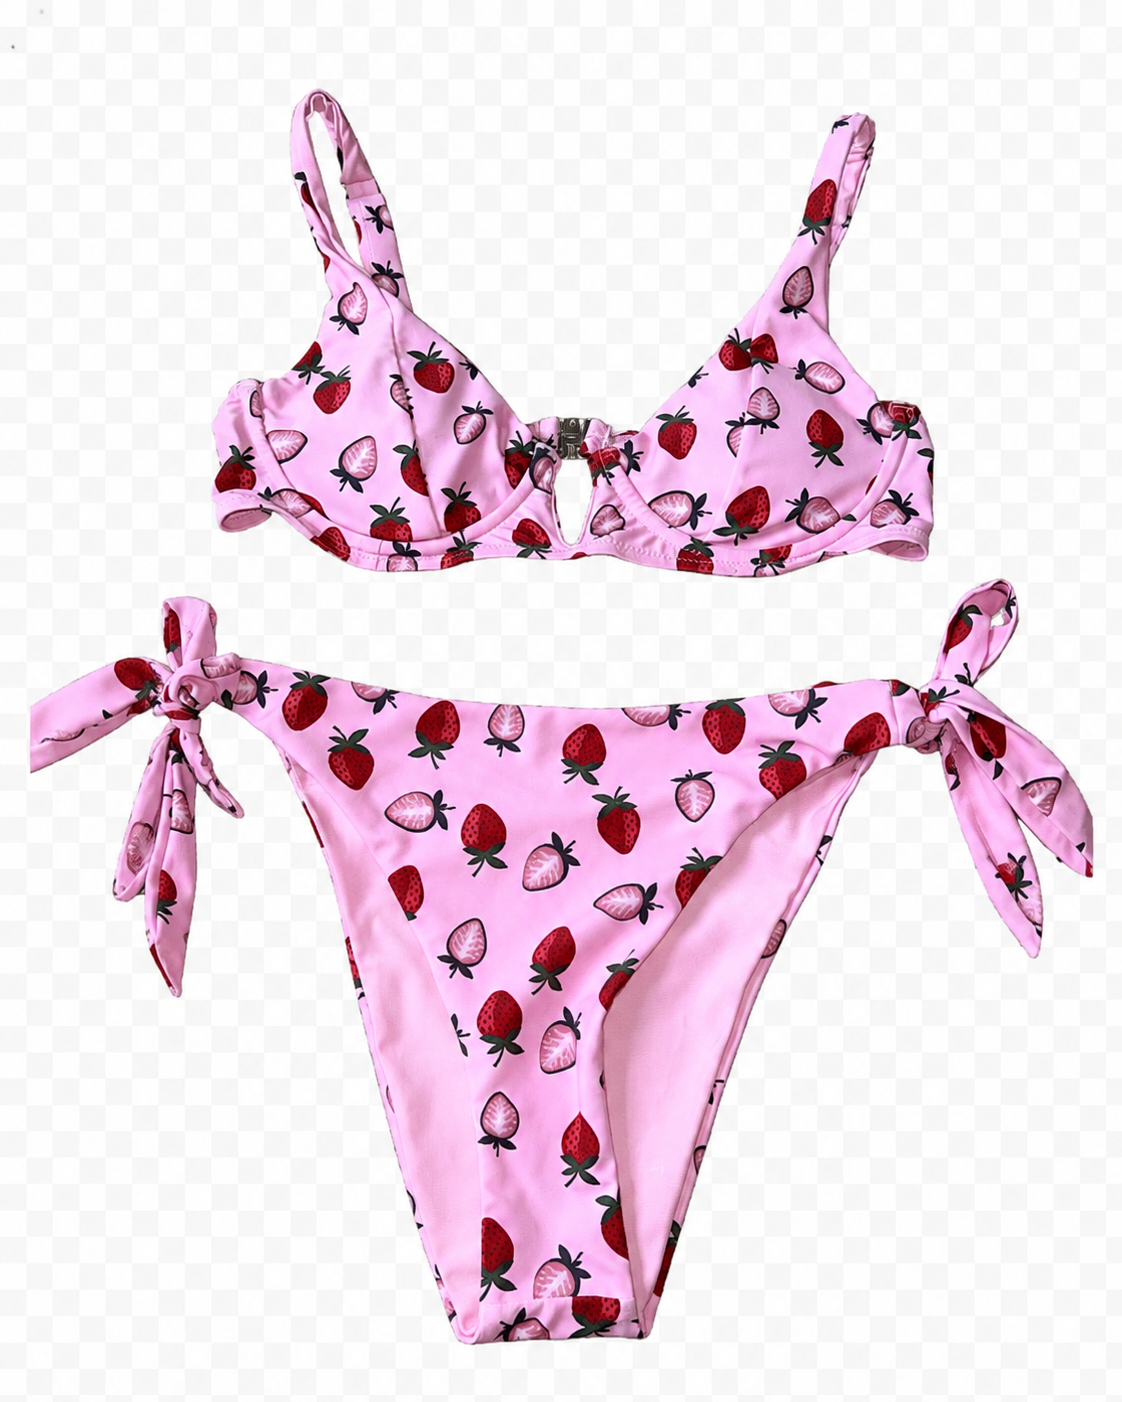
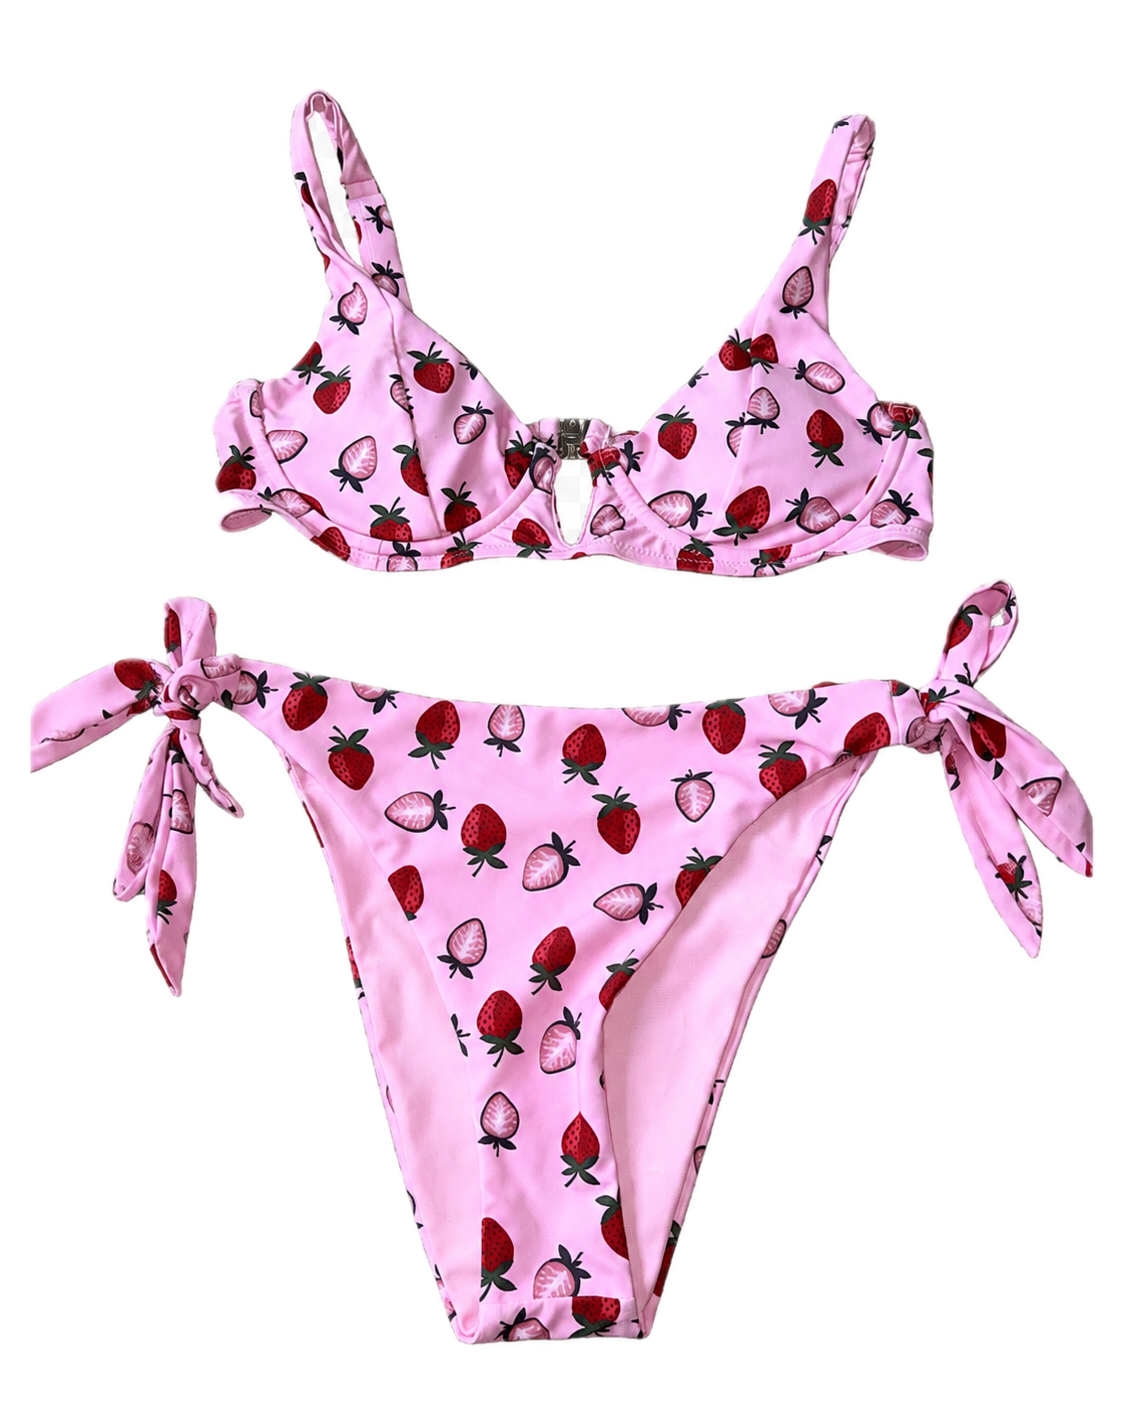
Add 9 new items, fix replacements, clean up deleted images

diff --git a/script.js b/script.js
@@ -161,7 +161,15 @@ const starterWardrobeItems = [
   createStarterItem("starter-black-biker-shorts", "Black biker shorts", "Bottoms", "images/closet/black-biker-shorts.png", ["black"], ["shorts", "biker", "athletic", "casual"]),
   createStarterItem("starter-black-face-graphic-tee", "Black face graphic tee", "Short Sleeve Tops", "images/closet/black-face-graphic-tee.png", ["black", "white"], ["graphic tee", "casual", "streetwear"]),
   createStarterItem("starter-navy-pinstripe-flare-jeans", "Navy pinstripe flare jeans", "Bottoms", "images/closet/navy-pinstripe-flare-jeans.png", ["navy", "white"], ["jeans", "flare", "pinstripe", "denim", "casual"]),
-  createStarterItem("starter-adidas-slides", "Adidas slides", "Shoes", "images/closet/adidas-slides.png", ["black", "white"], ["slides", "casual", "athletic"]),
+  createStarterItem("starter-leopard-print-shorts", "Leopard print shorts", "Bottoms", "images/closet/leopard-print-shorts.png", ["brown", "tan", "black"], ["leopard", "shorts", "casual", "print"]),
+  createStarterItem("starter-snakeskin-heeled-sandals", "Snakeskin heeled sandals", "Shoes", "images/closet/snakeskin-heeled-sandals.png", ["tan", "brown", "cream"], ["heels", "sandals", "snakeskin", "dressy"]),
+  createStarterItem("starter-knowt-graphic-tee", "Knowt graphic tee", "Short Sleeve Tops", "images/closet/knowt-graphic-tee.png", ["black", "white"], ["graphic tee", "casual", "streetwear"]),
+  createStarterItem("starter-umd-block-graphic-tee", "UMD Block graphic tee", "Short Sleeve Tops", "images/closet/umd-block-graphic-tee.png", ["navy", "multicolor"], ["graphic tee", "casual", "college"]),
+  createStarterItem("starter-sage-open-knit-sweater", "Sage open-knit sweater", "Long Sleeve Tops", "images/closet/sage-open-knit-sweater.png", ["sage", "green"], ["sweater", "knit", "crochet", "casual", "layering"]),
+  createStarterItem("starter-lime-ruffle-crop-top", "Lime ruffle crop top", "Long Sleeve Tops", "images/closet/lime-ruffle-crop-top.png", ["lime", "neon green", "yellow-green"], ["crop top", "ruffle", "tie-front", "summer", "casual"]),
+  createStarterItem("starter-green-do-your-thing-tee", "Green Do Your Thing tee", "Short Sleeve Tops", "images/closet/green-do-your-thing-tee.png", ["forest green", "white"], ["graphic tee", "casual", "streetwear"]),
+  createStarterItem("starter-retro-print-mini-skirt", "Retro print mini skirt", "Bottoms", "images/closet/retro-print-mini-skirt.png", ["orange", "green", "red", "yellow"], ["skirt", "mini", "retro", "print", "summer"]),
+  createStarterItem("starter-fish-print-pants", "Fish print pants", "Bottoms", "images/closet/fish-print-pants.png", ["black", "tan"], ["pants", "print", "casual", "streetwear"]),
 ];
 
 const topCategories = ["Tops", "Short Sleeve Tops", "Long Sleeve Tops"];

diff --git a/index.html b/index.html
@@ -14,8 +14,8 @@
       href="https://fonts.googleapis.com/css2?family=DM+Sans:wght@400;500;600&family=Playfair+Display:ital,wght@0,600;1,500&display=swap"
       rel="stylesheet"
     />
-    <link rel="stylesheet" href="style.css?v=0.9.4" />
-    <script src="script.js?v=0.9.4" defer></script>
+    <link rel="stylesheet" href="style.css?v=0.9.5" />
+    <script src="script.js?v=0.9.5" defer></script>
   </head>
   <body>
     <div class="app-shell">